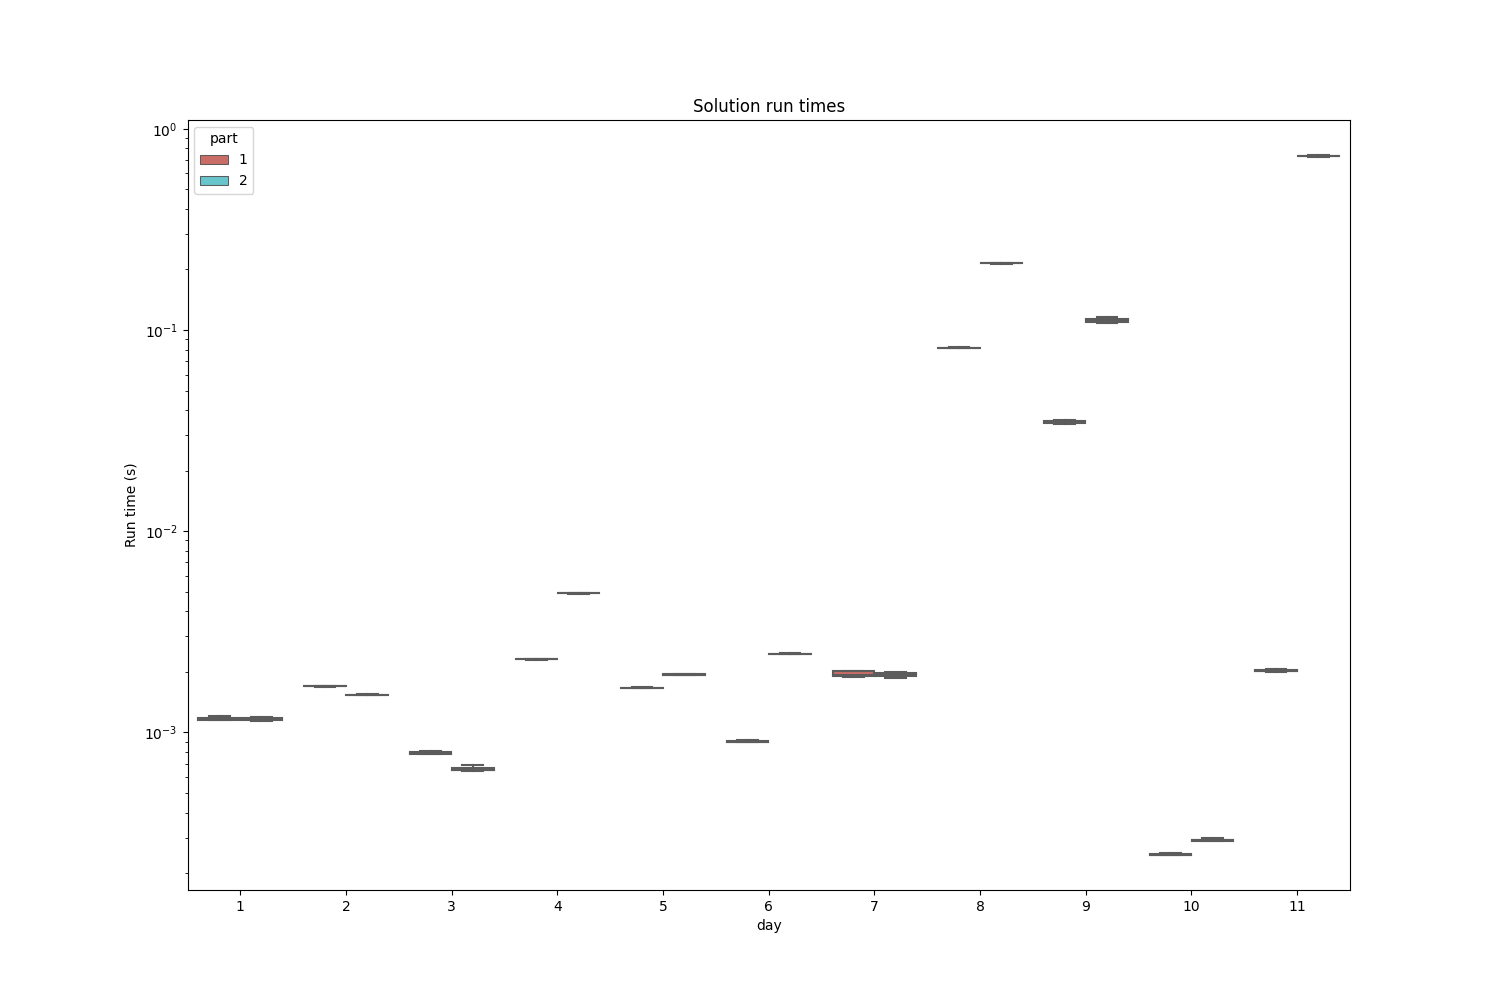
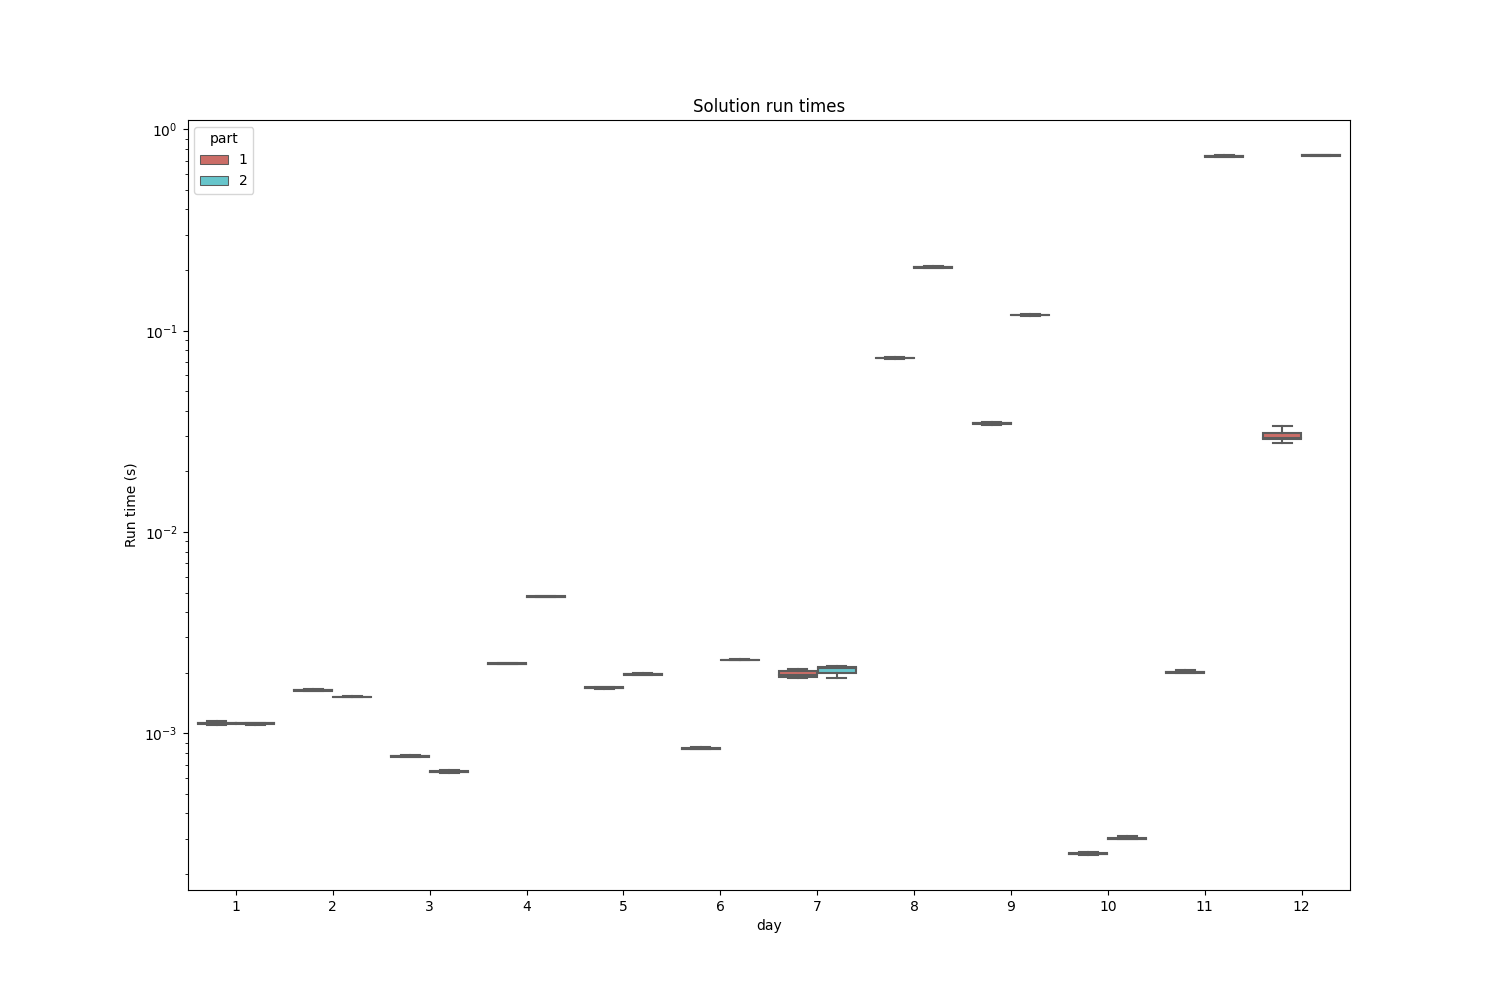
day 12 (#19)
* day 12

* ran benchmarking

* removed ambiguity of l

* ran benchmarking

diff --git a/aoc/day_12.py b/aoc/day_12.py
@@ -1,0 +1,96 @@
+import networkx as nx
+import networkx.exception
+
+
+def parse_graph(file_path):
+
+    # read file
+    with open(file_path) as f:
+        lines = f.readlines()
+    # initialise directed graph
+    G = nx.DiGraph()
+    # for y co-ordinate, character (reversed to start bottom as 0)
+    for y, line in enumerate(lines[::-1]):
+        # for x co-ordinate, character
+        for x, char in enumerate(line.strip()):
+            # if it's the start
+            if char == "S":
+                start = (x, y)
+                char = "a"
+            # if it's the end
+            if char == "E":
+                end = (x, y)
+                char = "z"
+            # add node
+            G.add_node((x, y), height=ord(char) - 97)
+    # get all nodes and heights
+    heights = nx.get_node_attributes(G, "height")
+    for node1, height1 in heights.items():
+        # for surrounding nodes
+        for x, y in [(-1, 0), (1, 0), (0, -1), (0, 1)]:
+            # if node exists
+            try:
+                # get 2nd node
+                node2 = (node1[0] + x, node1[1] + y)
+                # get height of node
+                height2 = heights[node2]
+                # if it is less than 1 higher
+                if height2 - height1 <= 1:
+                    # add edge
+                    G.add_edge(node1, node2)
+            # catch key errors
+            except KeyError:
+                pass
+    # return graph and start and end points
+    return G, start, end
+
+
+def part_one(file_path: str) -> int:
+    """
+    get shortest path yawn
+
+    Args:
+        file_path (str): input file string
+
+    Returns:
+        int: length of shortest path
+    """
+    # get graph, and endpoints
+    G, start, end = parse_graph(file_path)
+    # get shortest path
+    return nx.shortest_path_length(G, source=start, target=end)
+
+
+def part_two(file_path: str) -> int:
+    """
+    get shortest path through multiple points yawn
+
+    Args:
+        file_path (str): input file string
+
+    Returns:
+        int: shortest length between lowest points to end
+    """
+    # don't need start
+    G, _, end = parse_graph(file_path)
+    # get heights
+    heights = nx.get_node_attributes(G, "height")
+    # initialise empty lengths
+    lengths = []
+    # for start, heigh in dict
+    for start, height in heights.items():
+        # if it is the lowest height
+        if height == 0:
+            # try and find the shortest path between that and the end
+            try:
+                lengths.append(nx.shortest_path_length(G, start, end))
+            # catch if no path exists
+            except networkx.exception.NetworkXNoPath:
+                pass
+    # return minimum lengths
+    return min(lengths)
+
+
+if __name__ == "__main__":
+    print(part_one("aoc/inputs/day_12.txt"))
+    print(part_two("aoc/inputs/day_12.txt"))

diff --git a/tests/test_day_12.py b/tests/test_day_12.py
@@ -1,0 +1,15 @@
+from aoc.day_12 import part_one, part_two
+
+
+def test_part_one():
+
+    test_file_path = "tests/test_inputs/test_day_12.txt"
+
+    assert part_one(test_file_path) == 31
+
+
+def test_part_two():
+
+    test_file_path = "tests/test_inputs/test_day_12.txt"
+
+    assert part_two(test_file_path) == 29
